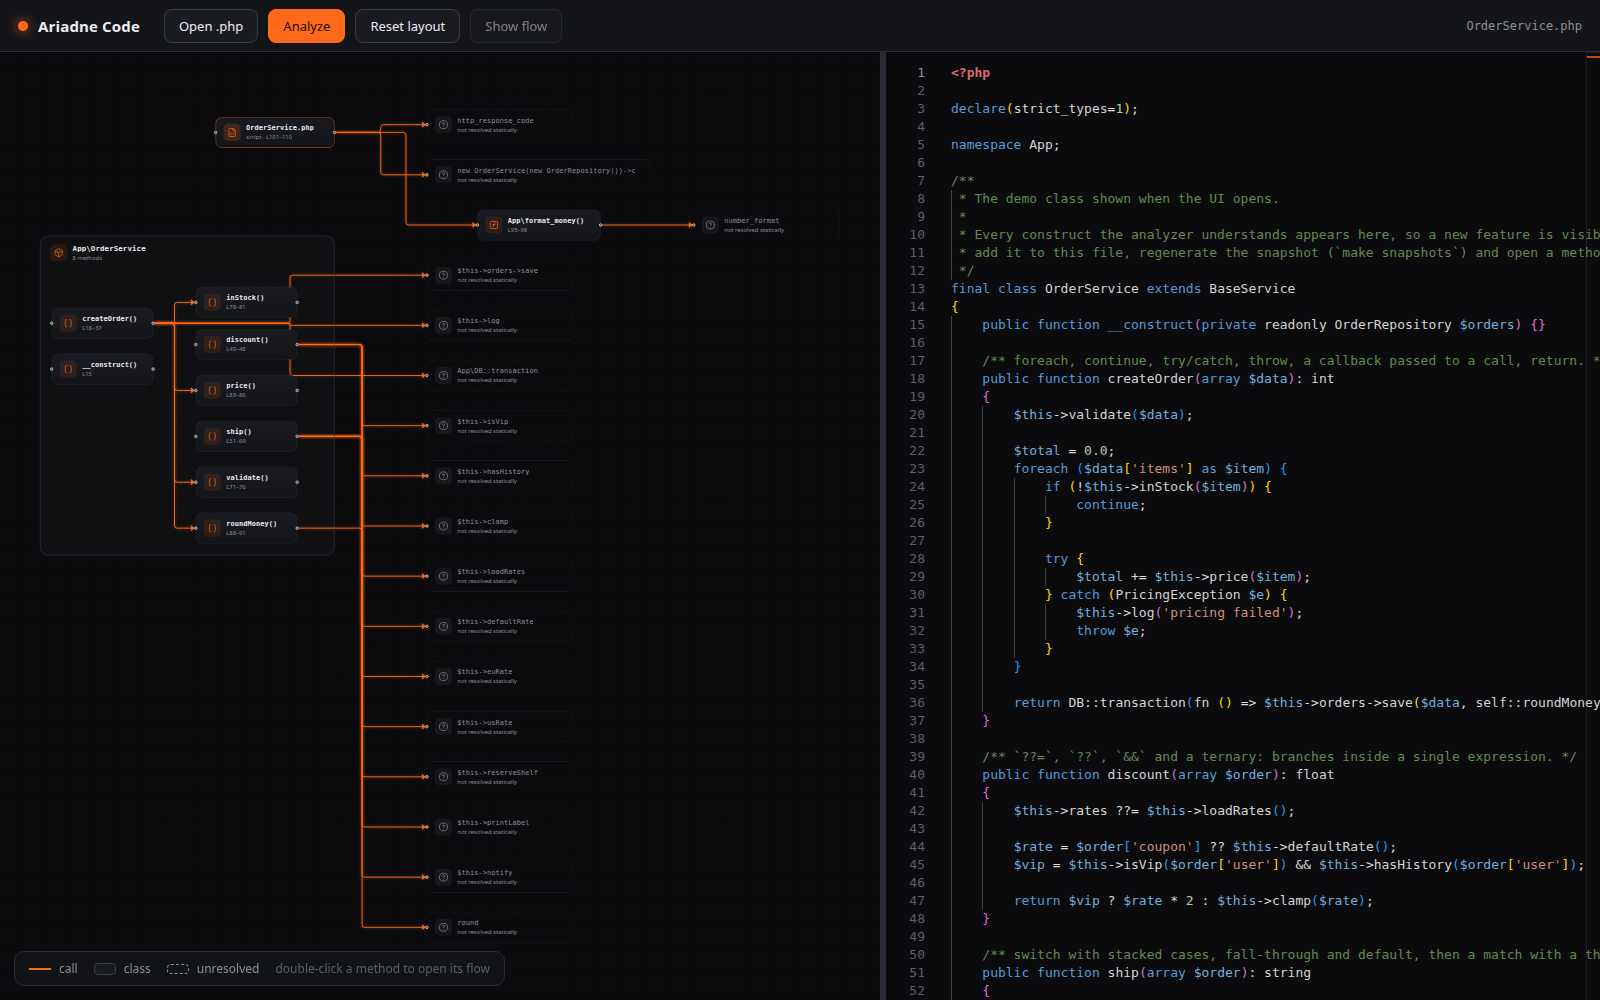
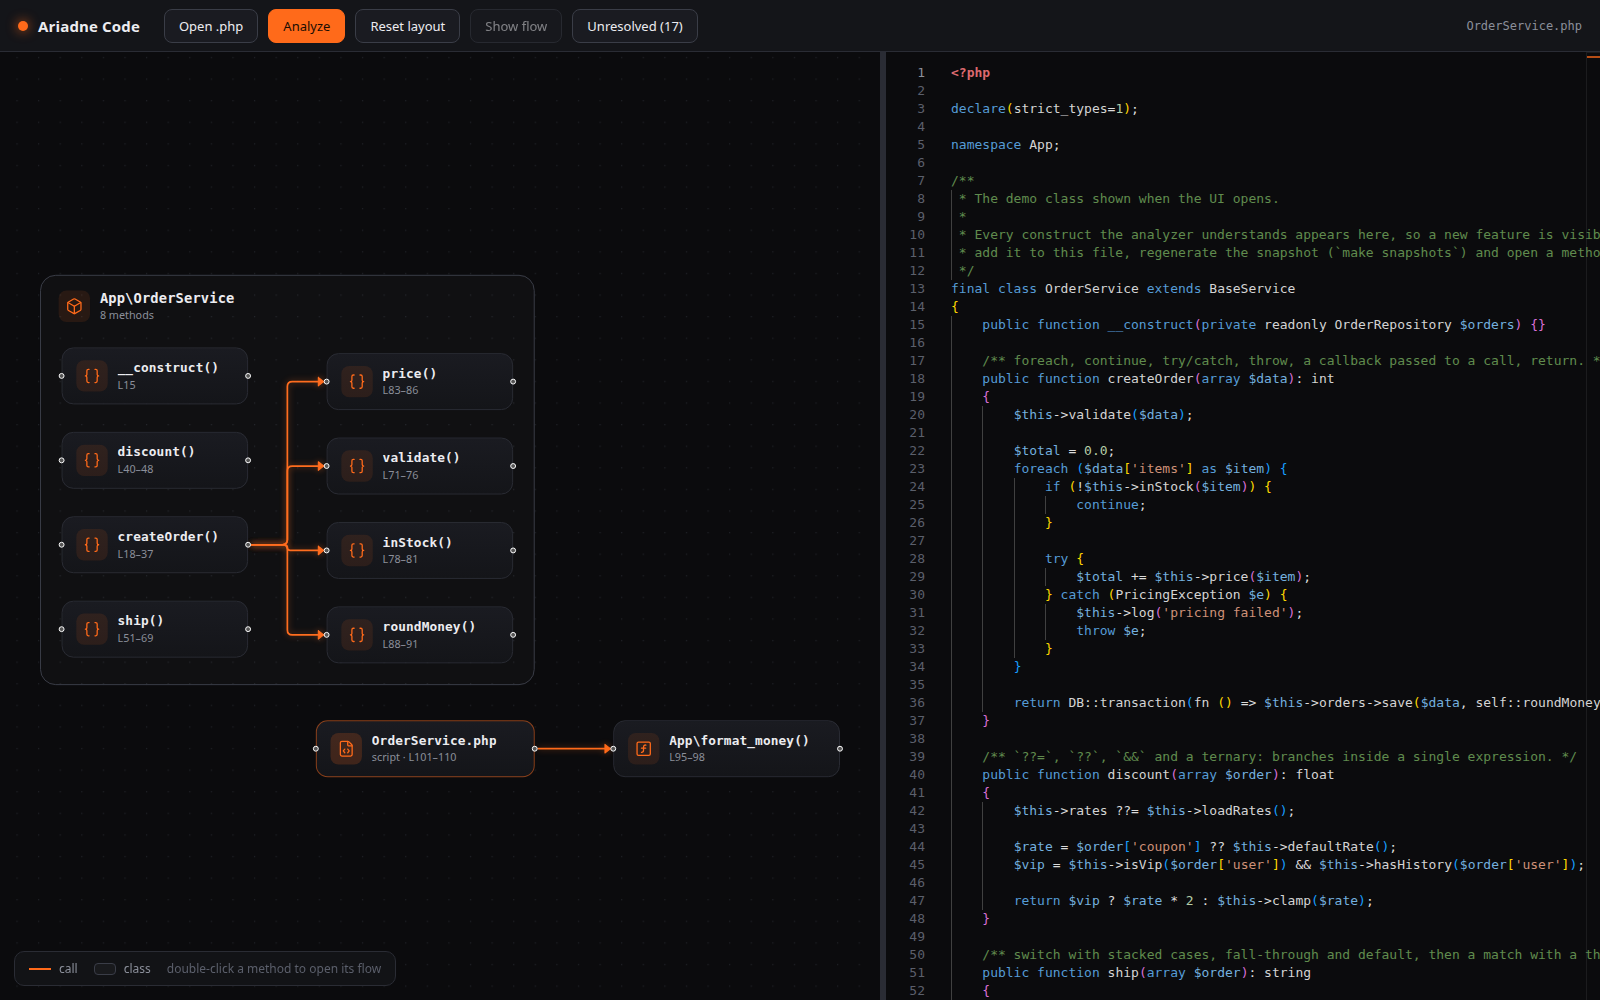
[docs] describe the unresolved toggle, refresh the map screenshot

diff --git a/README.md b/README.md
@@ -30,7 +30,7 @@ make up    # UI on http://localhost:5180, API on http://localhost:8090
 
 The page shows the class map next to the source code. Click a node to jump to its code; move the cursor in the editor to highlight the matching node. Use **Open .php** to analyze your own file.
 
-Classes are containers that hold their methods and can be resized; drag any block and the layout is remembered per file.
+Calls the analyzer cannot trace to a declaration (builtins, calls on other objects) are hidden on the map by default, because there are often more of them than real nodes; the **Unresolved (N)** button shows them. Classes are containers that hold their methods and can be resized; drag any block and the layout is remembered per file.
 
 **Method flow:** double-click a method (or select it and press **Show flow**) to see how it runs: its calls in execution order, `if` branches (`true`/`false`), loops, `try`/`catch`, `return` and `throw`. A flow can be shared by link, e.g. `http://localhost:5180/#method=method:App\\OrderService::createOrder`.
 
